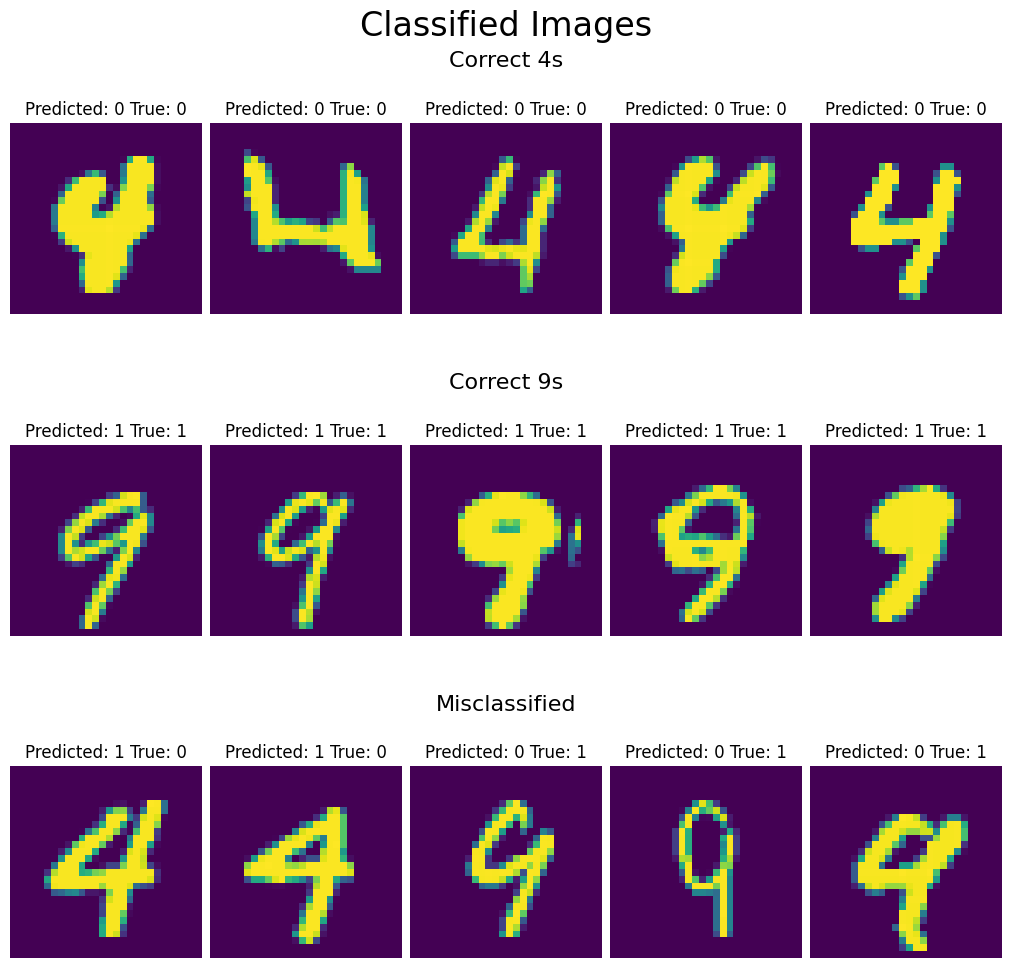
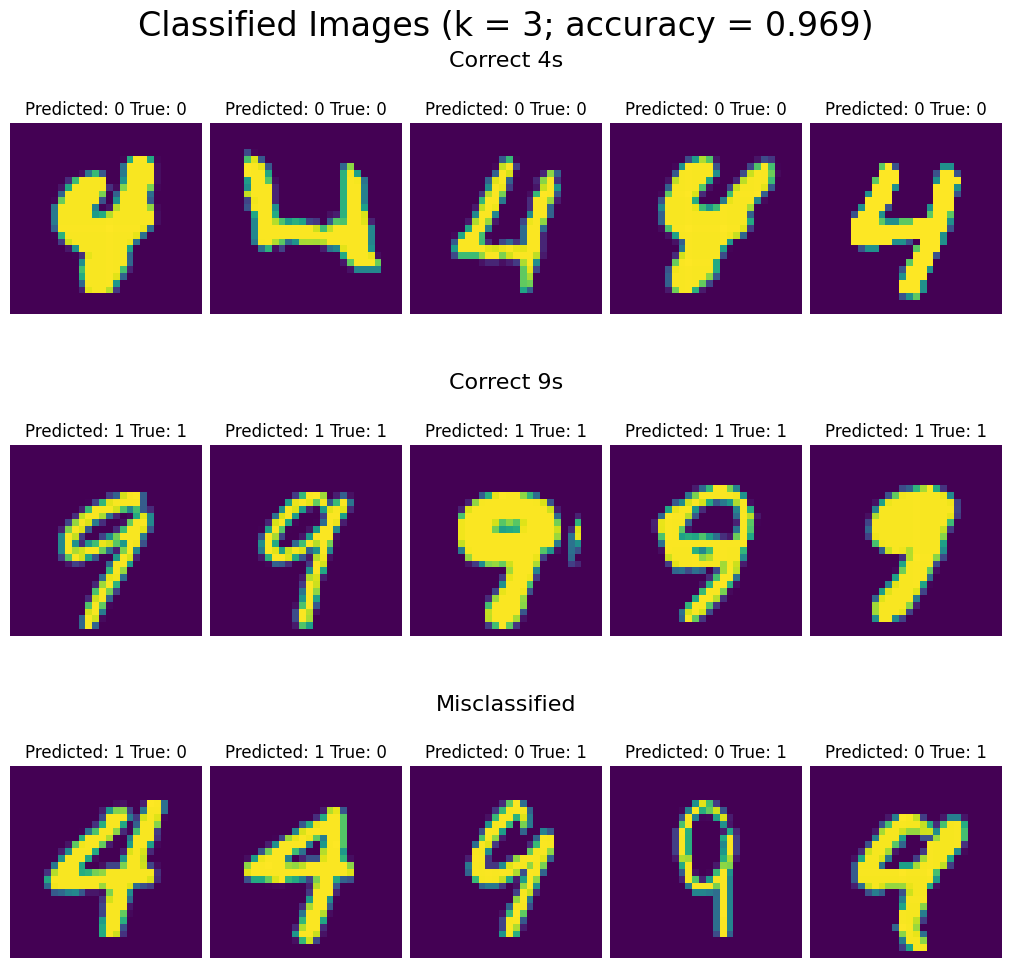
update summary figure title

Changed region(s): [[0.4293, 0.0, 0.8586, 0.062], [0.1227, 0.0, 0.3986, 0.062]]

diff --git a/knn_binary_classifier.py b/knn_binary_classifier.py
@@ -146,7 +146,7 @@ example_indices = np.concatenate((correct_4_indices[:5], correct_9_indices[:5], 
 
 # create figure with 5 correctly labeled images of each class and 5 incorrectly labeled images
 fig = plt.figure(figsize=(10,10), layout="constrained")
-fig.suptitle("Classified Images", fontsize = 24)
+fig.suptitle(f"Classified Images (k = {optimal_k}; accuracy = {test_accuracy})", fontsize = 24)
 
 row_titles = ["Correct 4s", "Correct 9s", "Misclassified"]
 
